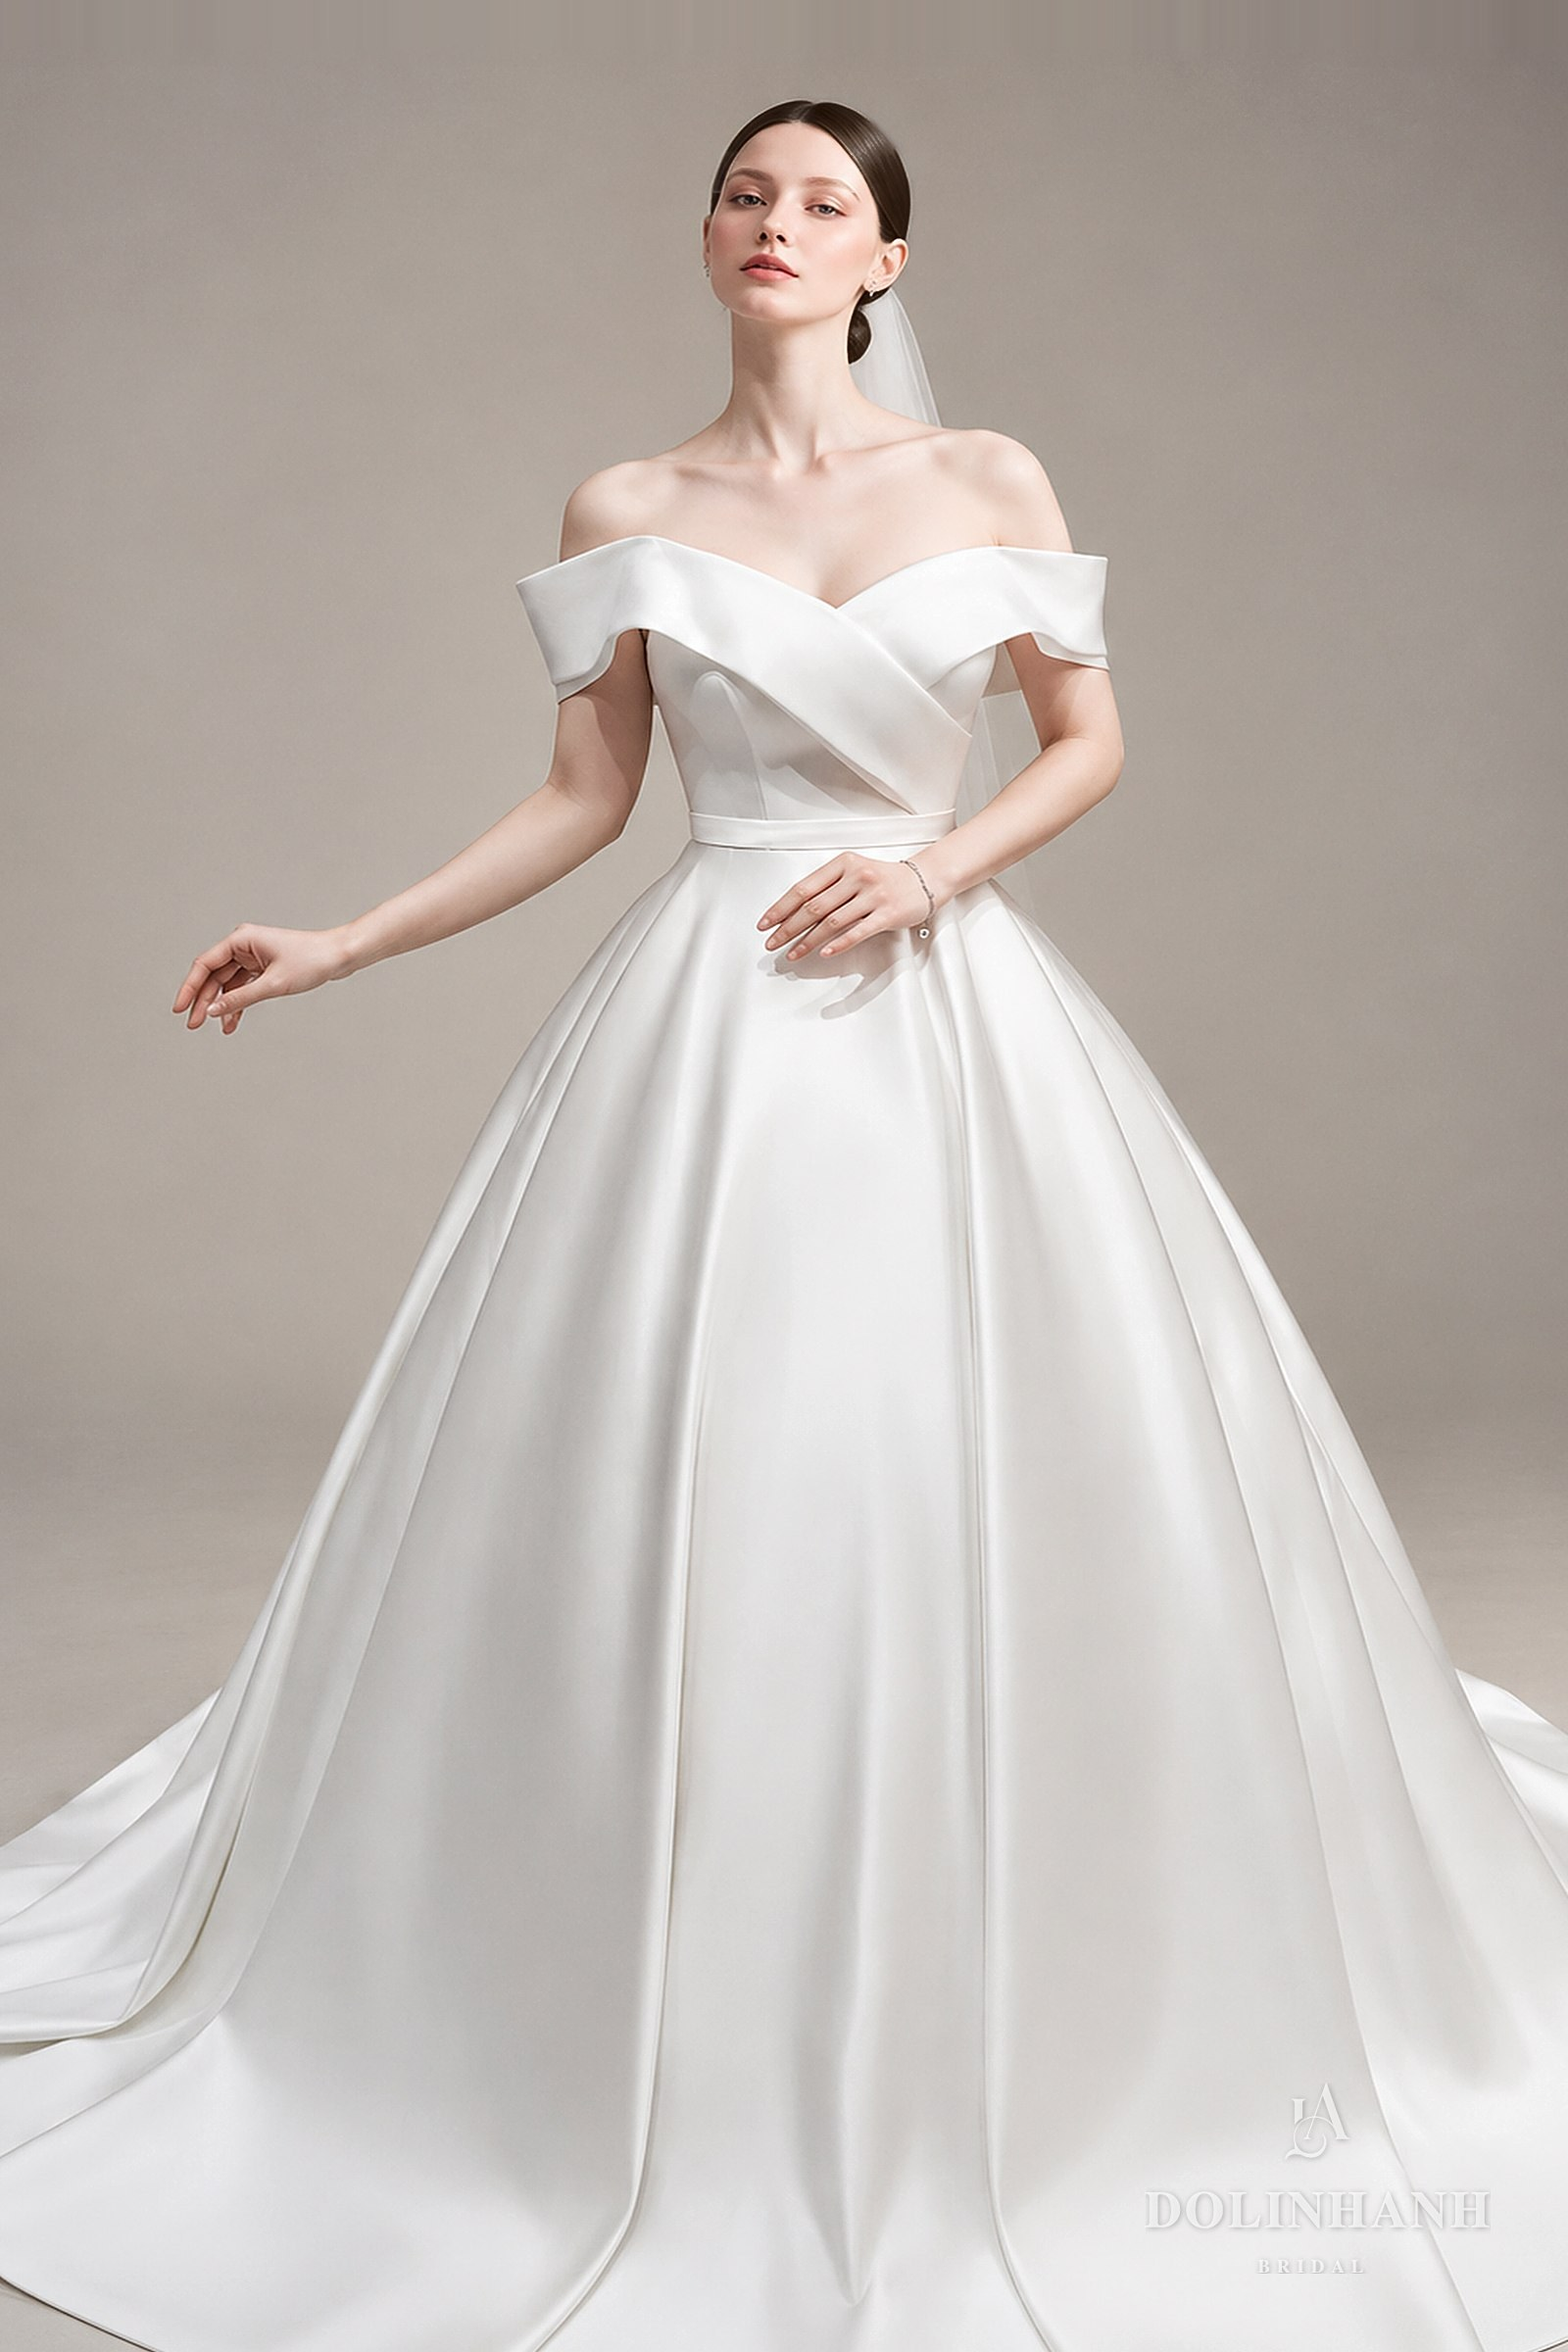
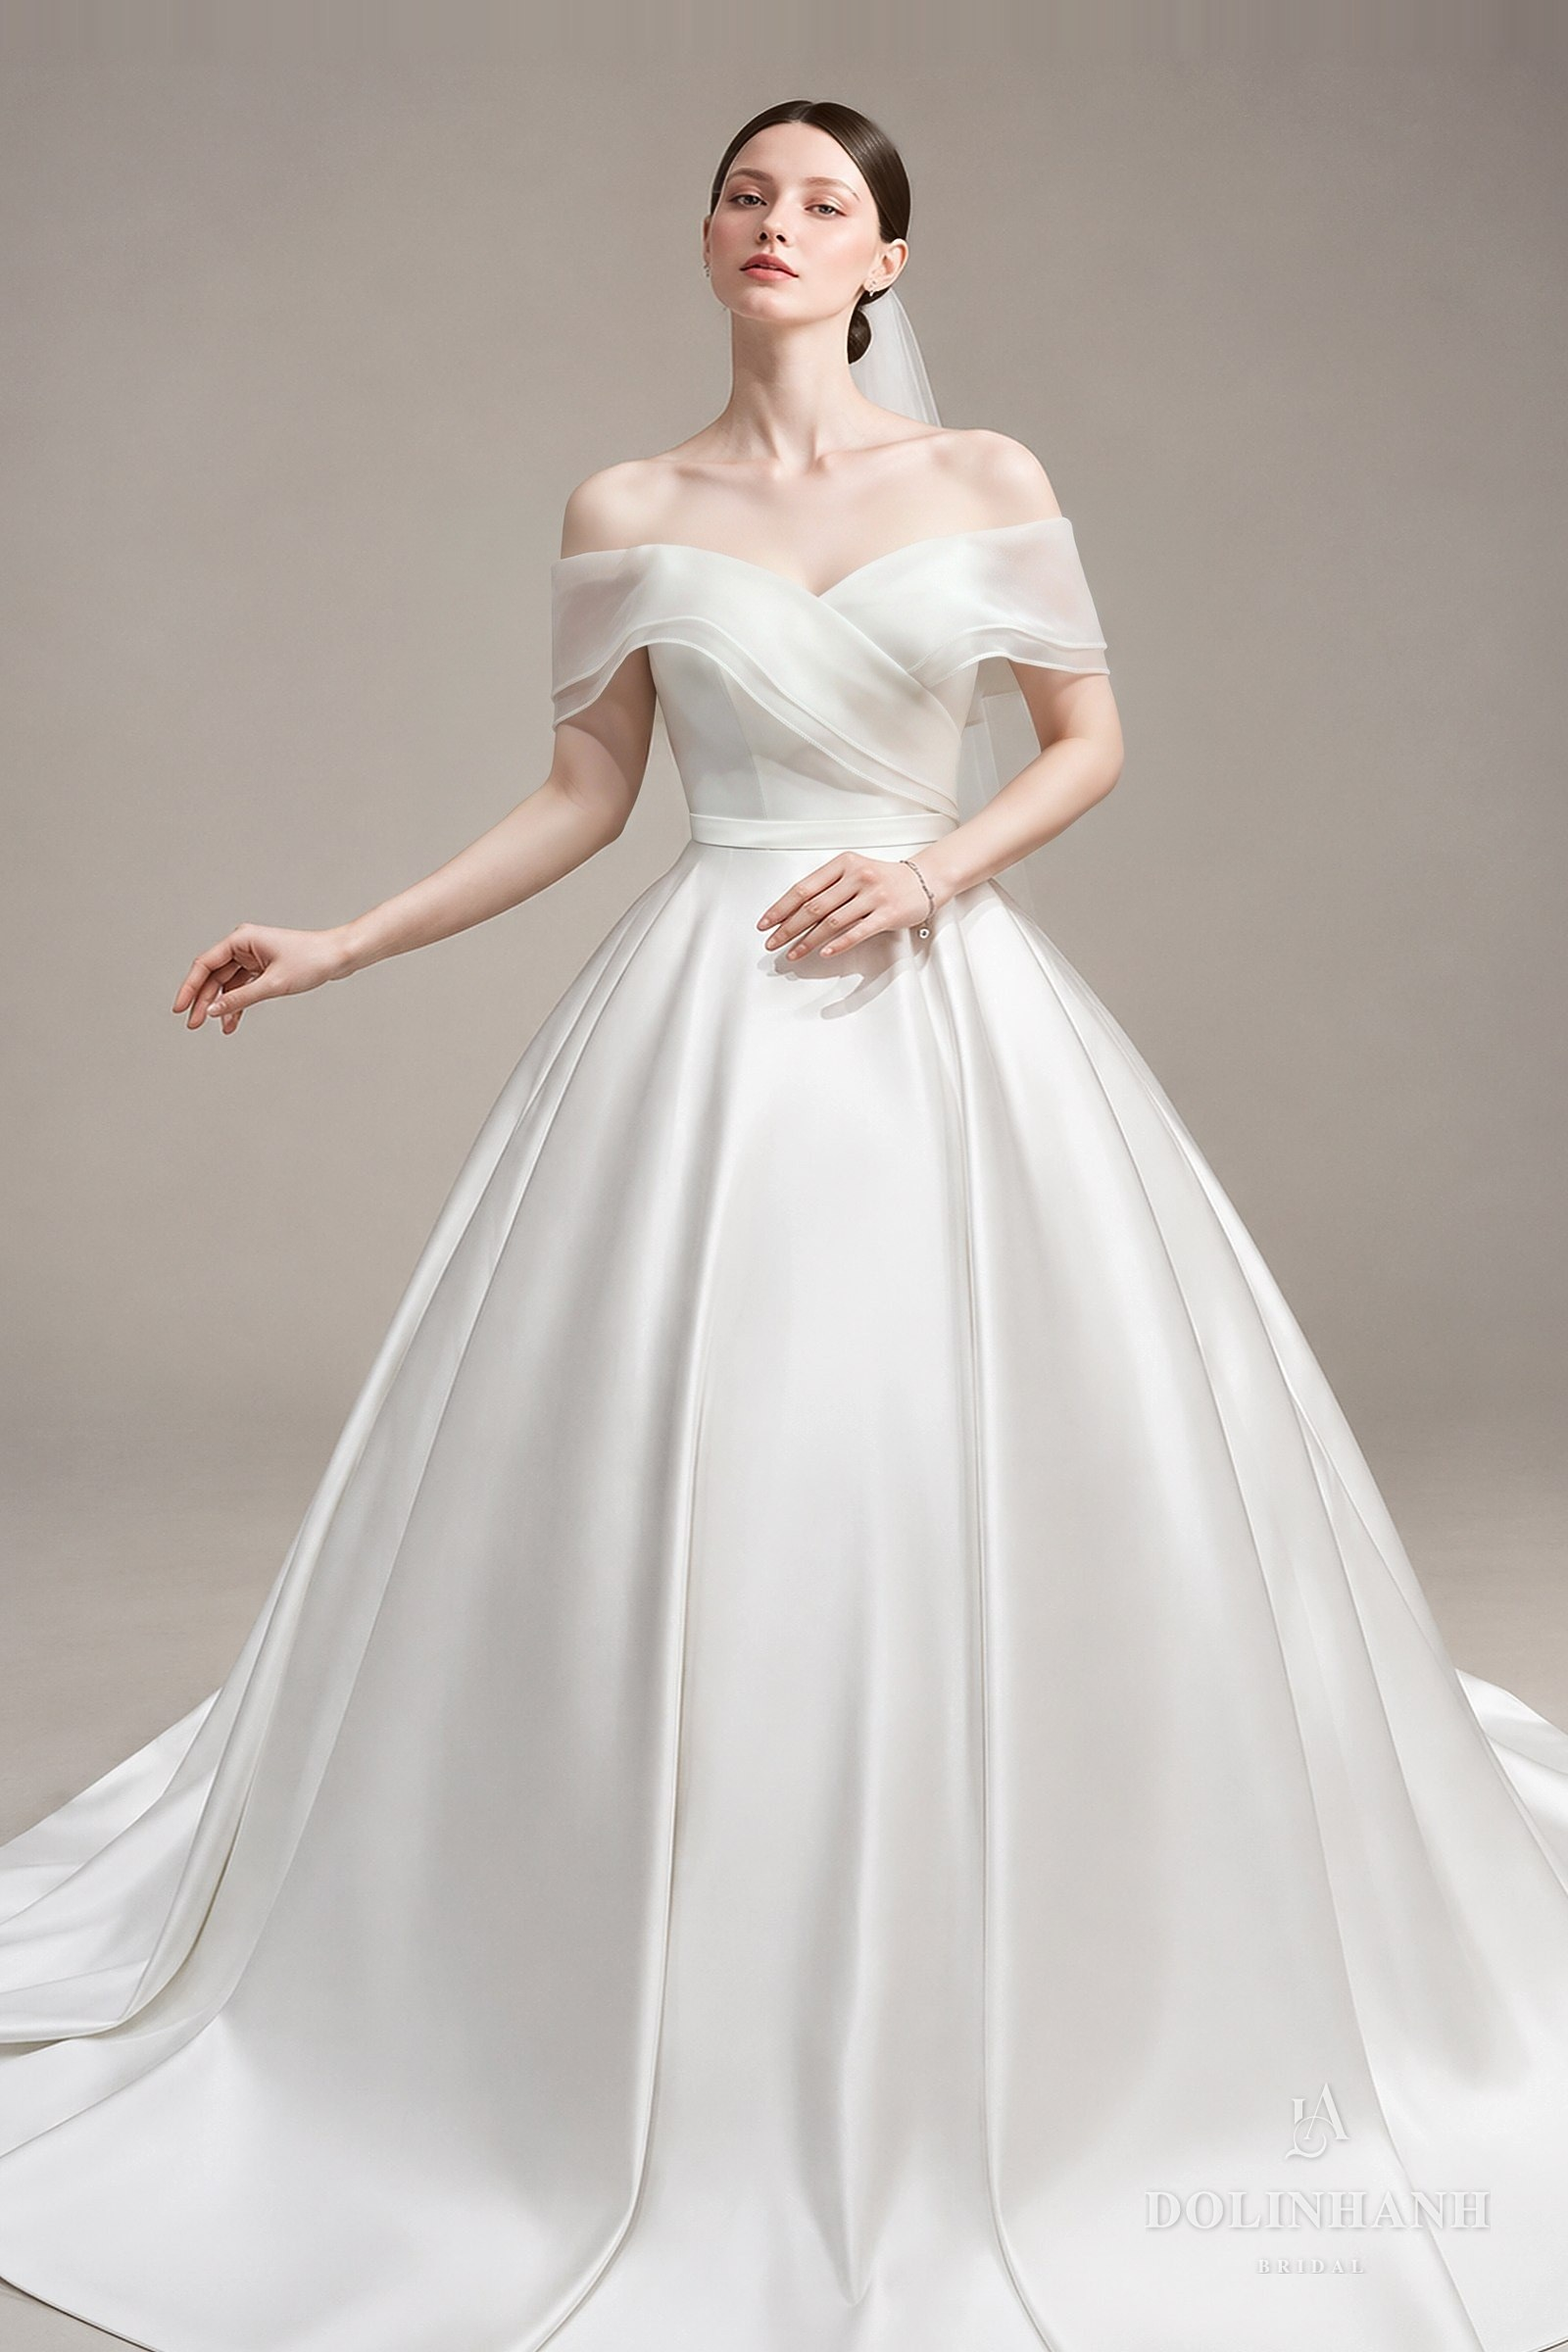
V172: sua anh MS 219: giu co, vai doi sang voan

Changed region(s): [[0.3438, 0.2188, 0.7188, 0.3438]]

diff --git a/bo-suu-tap.html b/bo-suu-tap.html
@@ -1858,7 +1858,7 @@ src="https://www.facebook.com/tr?id=1358640082651240&ev=PageView&noscript=1"
         </figure>
         <figure data-dang="a-line" data-mood="timeless" data-coso="hcm">
           <div class="sl-khung">
-            <div class="sl" data-img="anh/vay/ms219/01.jpg?v=logo1"></div>
+            <div class="sl" data-img="anh/vay/ms219/01.jpg?v=0511"></div>
           </div>
           <figcaption><span class="kind" data-en="Dolinhanh Bridal" data-zh="Dolinhanh Bridal">Dolinhanh Bridal</span><span class="nm">MS 219</span><span class="de" data-en="Crossed off-shoulder, satin skirt" data-zh="交叉一字肩，缎面裙摆">Trễ vai bắt chéo, tùng satin</span><span class="gia">US$1,080</span></figcaption>
         </figure>
